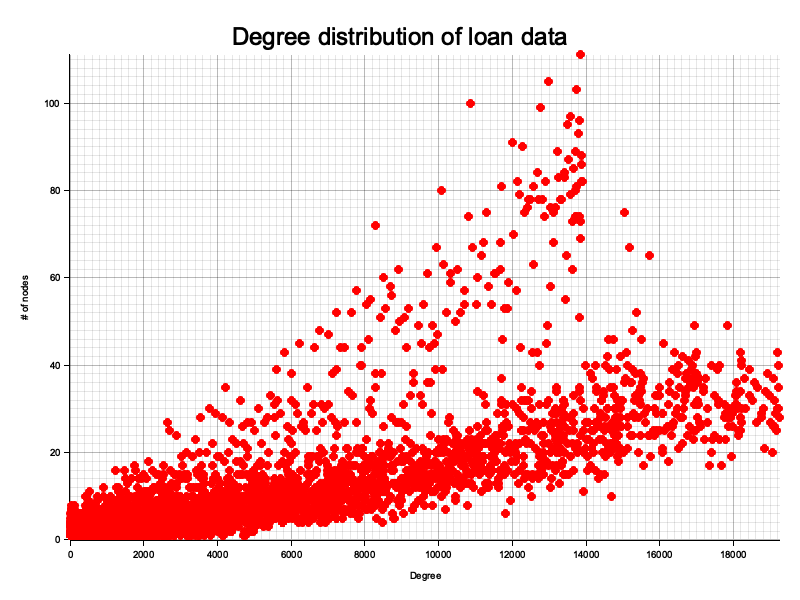
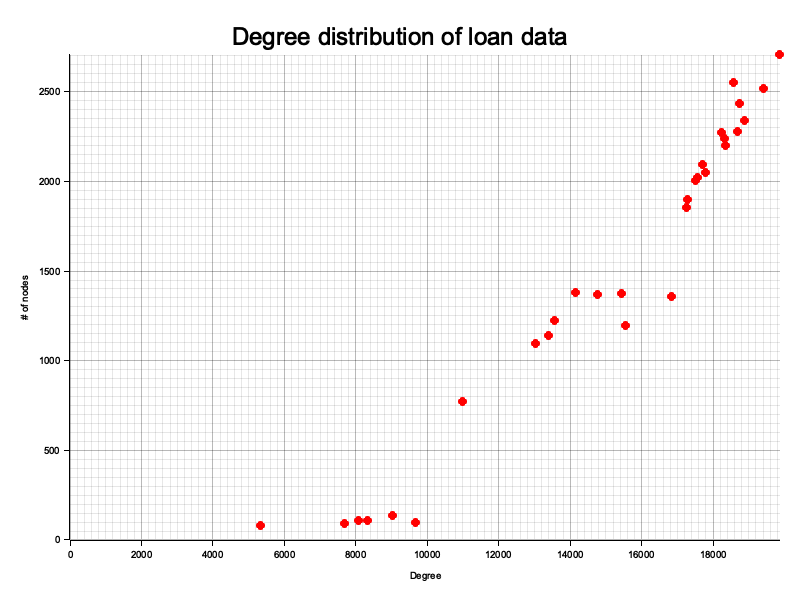
revert change of data anaylsis variables + add test comments

diff --git a/src/main.rs b/src/main.rs
@@ -1,6 +1,6 @@
 mod adjacency;
 mod plot;
-use adjacency::{read_loans, LoanGraph};
+use adjacency::{read_loans, LoanGraph, LoanRecord};
 use plot::plot_degree_distribution;
 
 fn main() -> Result<(), Box<dyn std::error::Error>> {
@@ -28,37 +28,38 @@ mod tests {
     use super::*;
 
     #[test]
-    fn test_build_graph_connects_shared_education() {
+    // check to see if adjacency list is being calculated correctly (build_from_data function)
+    fn test_build_graph() {
         let records = vec![
             LoanRecord {
-                person_age: Some(30),
+                person_age: Some(25),
                 person_gender: "M".into(),
                 person_education: "Bachelors".into(),
-                person_income: Some(50000.0),
+                person_income: Some(80000.0),
                 person_emp_exp: Some(5.0),
                 person_home_ownership: "RENT".into(),
-                loan_amnt: Some(2000.0),
+                loan_amnt: Some(20000.0),
                 loan_intent: "DEBTCONSOLIDATION".into(),
-                loan_int_rate: Some(13.5),
-                loan_percent_income: Some(0.04),
+                loan_int_rate: Some(11.5),
+                loan_percent_income: Some(0.25),
                 cb_person_cred_hist_length: Some(4),
-                credit_score: Some(700),
+                credit_score: Some(730),
                 previous_loan_defaults_on_file: Some(0),
                 loan_status: Some(0),
             },
             LoanRecord {
-                person_age: Some(28),
+                person_age: Some(32),
                 person_gender: "F".into(),
-                person_education: "Bachelors".into(), // same education
-                person_income: Some(40000.0),
+                person_education: "Bachelors".into(), // same education level (should be connected)
+                person_income: Some(62000.0),
                 person_emp_exp: Some(3.0),
-                person_home_ownership: "MORTGAGE".into(),
-                loan_amnt: Some(3000.0),
+                person_home_ownership: "RENT".into(),
+                loan_amnt: Some(5200.0),
                 loan_intent: "EDUCATION".into(),
-                loan_int_rate: Some(12.0),
-                loan_percent_income: Some(0.075),
+                loan_int_rate: Some(10.50),
+                loan_percent_income: Some(0.084),
                 cb_person_cred_hist_length: Some(5),
-                credit_score: Some(720),
+                credit_score: Some(690),
                 previous_loan_defaults_on_file: Some(0),
                 loan_status: Some(1),
             },
@@ -71,15 +72,16 @@ mod tests {
     }
 
     #[test]
-    fn test_degree_distribution_correctness() {
-        // 3 nodes all connected to each other (triangle)
+    // check to see if degree distrubtion is calculating correctly (compute_degree_distribution function)
+    fn test_degree_distribution() {
+        // 3 test nodes, all should be connected
         let mut graph = LoanGraph::new();
         graph.adjacency_list.insert(0, [1, 2].iter().cloned().collect());
         graph.adjacency_list.insert(1, [0, 2].iter().cloned().collect());
         graph.adjacency_list.insert(2, [0, 1].iter().cloned().collect());
 
         let dist = graph.compute_degree_distribution();
-        assert_eq!(dist.len(), 1); // All nodes have same degree
-        assert_eq!(dist[&2], 3);   // 3 nodes with degree 2
+        assert_eq!(dist.len(), 1); // all nodes should have the same degree of connection
+        assert_eq!(dist[&2], 3);   // 3 total nodes with 2 degree
     }
 }

diff --git a/src/adjacency.rs b/src/adjacency.rs
@@ -43,37 +43,22 @@ impl LoanGraph {
     pub fn build_from_data(data: &[LoanRecord]) -> Self {
         let mut graph = LoanGraph::new();
 
-        // Thresholds for similarity
-        let credit_score_threshold = 75;
-        let emp_exp_threshold = 4.0;  
-
         for (i, a) in data.iter().enumerate() {
             for (j, b) in data.iter().enumerate().skip(i + 1) {
-                if let (Some(a_credit), Some(b_credit), Some(a_exp), Some(b_exp)) = (
-                    a.credit_score,
-                    b.credit_score,
-                    a.person_emp_exp,
-                    b.person_emp_exp,
-                ) {
-                    if (a_credit as i32 - b_credit as i32).abs() <= credit_score_threshold
-                        && (a_exp - b_exp).abs() <= emp_exp_threshold
-                    {
-                        graph
-                            .adjacency_list
-                            .entry(i as u32)
-                            .or_insert_with(HashSet::new)
-                            .insert(j as u32);
-                        graph
-                            .adjacency_list
-                            .entry(j as u32)
-                            .or_insert_with(HashSet::new)
-                            .insert(i as u32);
-                    }
+                //if person (A&B) has same education or person (A&B) same loan intent -> add to adj list
+                if a.person_education == b.person_education || a.loan_intent == b.loan_intent {
+                    graph.adjacency_list
+                        .entry(i as u32)
+                        .or_insert_with(HashSet::new)
+                        .insert(j as u32);
+                    graph.adjacency_list
+                        .entry(j as u32)
+                        .or_insert_with(HashSet::new)
+                        .insert(i as u32);
                 }
             }
         }
-
-        graph
+        return graph;
     }
 
     // calculates the degree distribution from the LoanGraph graph

diff --git a/src/plot.rs b/src/plot.rs
@@ -29,7 +29,7 @@ pub fn plot_degree_distribution(distribution: &HashMap<usize, usize>, output_pat
         .y_desc("# of nodes")
         .draw()?;
 
-    chart.draw_series(
+    let _ = chart.draw_series(
         degrees.into_iter().map(|(degree, count)| {
             Circle::new((degree, count), 4, RED.filled())
         })
